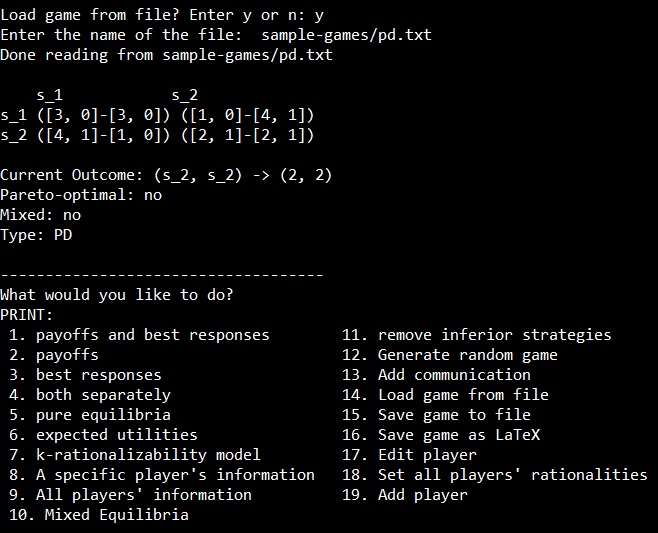
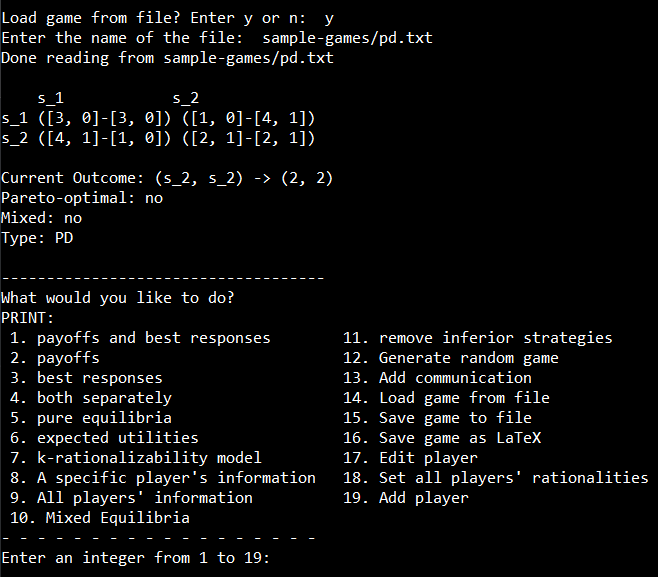
updated README.md

diff --git a/game.cpp b/game.cpp
@@ -96,10 +96,9 @@ int main()
 			cout << setw(12) << oList + secondColumn << ". Add player\n";
 			oList++;
 			cout << " " << oList << ". Mixed Equilibria\n";
-			oList++;
 			
 			cout << "- - - - - - - - - - - - - - - - - -\n";
-			cout << "Enter an integer from 1 to " << oList + secondColumn << ":  ";
+			cout << "Enter an integer from 1 to " << oList + secondColumn -1 << ":  ";
 			cin >> menu;
 			validate(menu, 1, oList + secondColumn);			
 			
